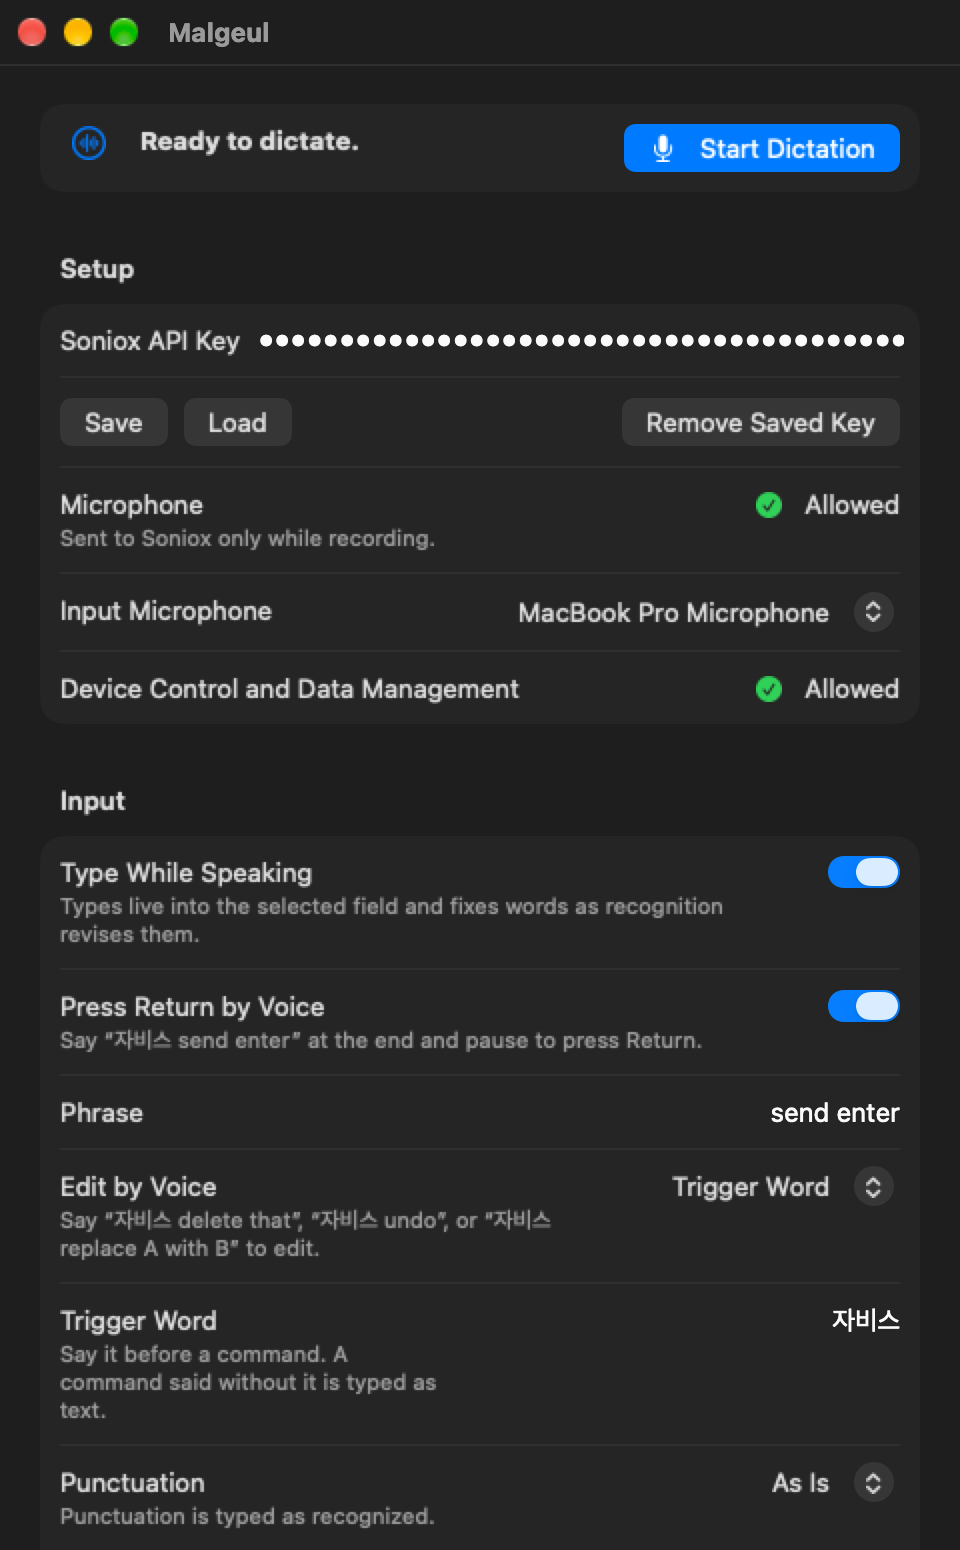
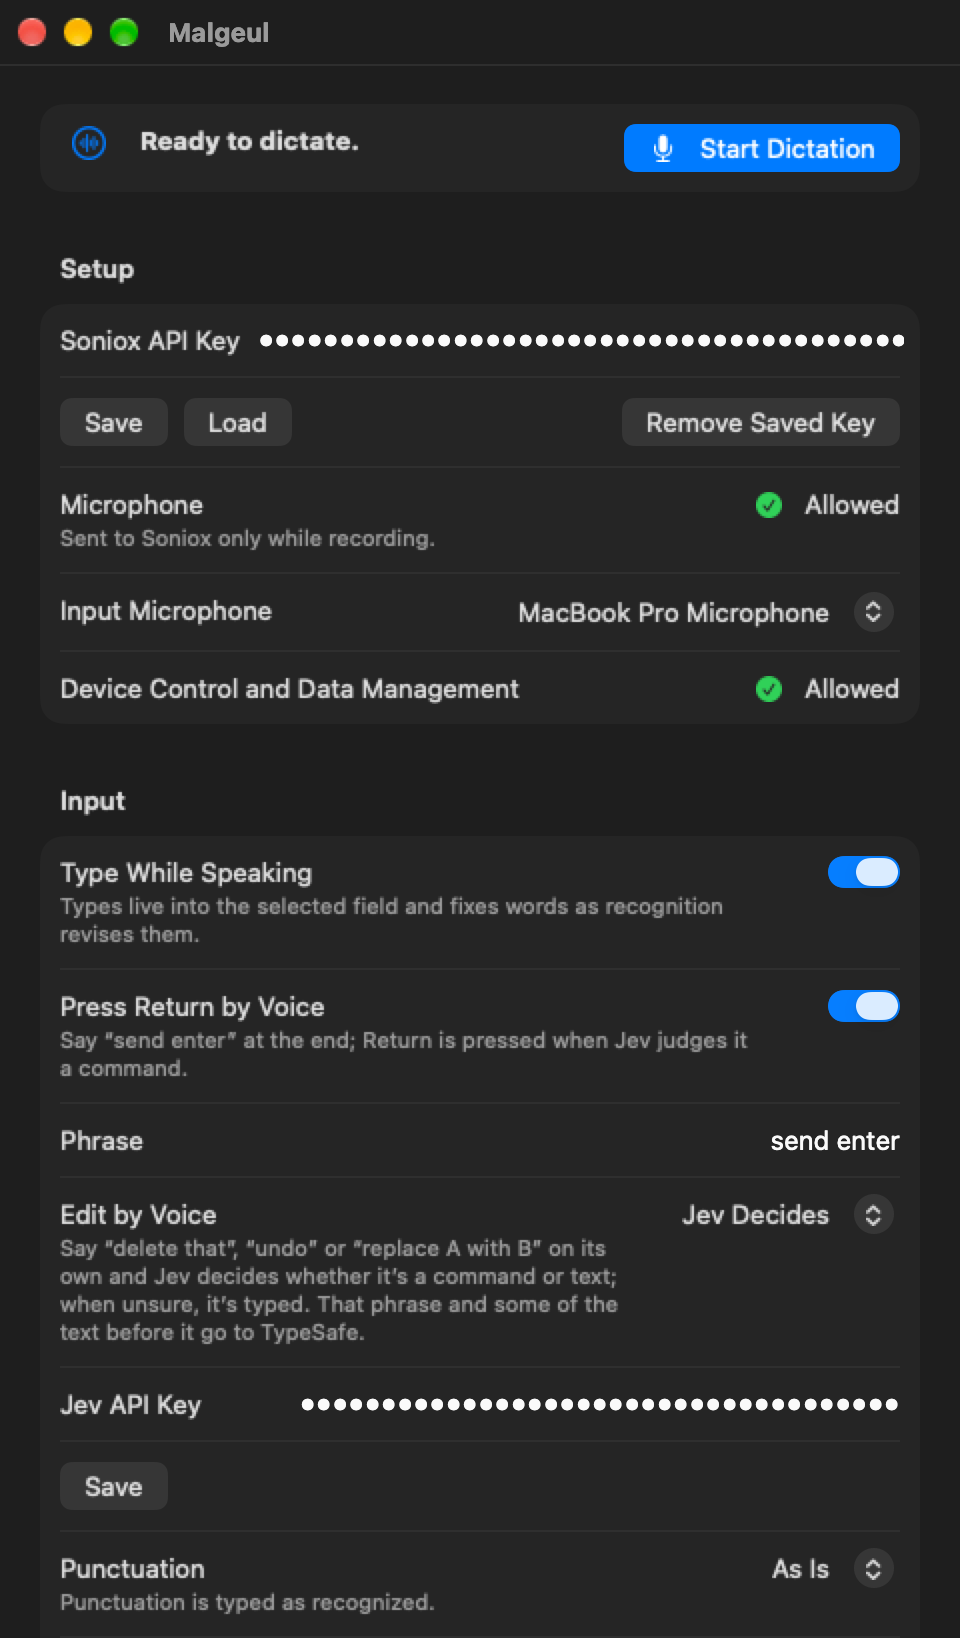
docs: show Jev Decides with a Jev key in the README Settings pictures instead of the dropped trigger word, and capture Settings down to Punctuation

diff --git a/Sources/Speech2Text/DemoCapture.swift b/Sources/Speech2Text/DemoCapture.swift
@@ -8,7 +8,7 @@ enum DemoCapturer {
     static let expandedOverlayWidth: CGFloat = 480
     /// Ends on the row separator after Punctuation at the default text size, so the last row is not cut through.
     static func settingsSize(for locale: AppModel.DemoLocale) -> NSSize {
-        NSSize(width: 480, height: locale == .en ? 743 : 715)
+        NSSize(width: 480, height: locale == .en ? 787 : 745)
     }
     static let stageSize = NSSize(width: 640, height: 212)
     static let offscreenOrigin = NSPoint(x: -10_000, y: -10_000)

diff --git a/Sources/Speech2Text/AppModel.swift b/Sources/Speech2Text/AppModel.swift
@@ -780,6 +780,7 @@ final class AppModel {
     func configureForDemoCapture() {
         let microphone = AudioInputDevice(uid: "demo-mic", name: "MacBook Pro Microphone")
         apiKey = "soniox-demo-synthetic-api-key-0123456789"
+        jevKey = "jev-demo-synthetic-api-key-0123456789"
         accessibilityGranted = true
         microphoneAccessOverride = .granted
         defaultInputDevice = microphone
